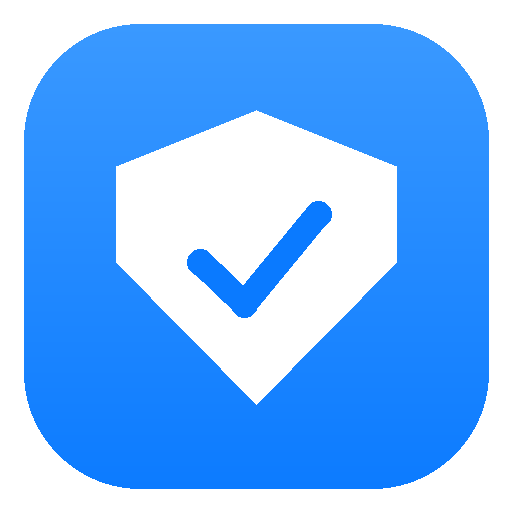
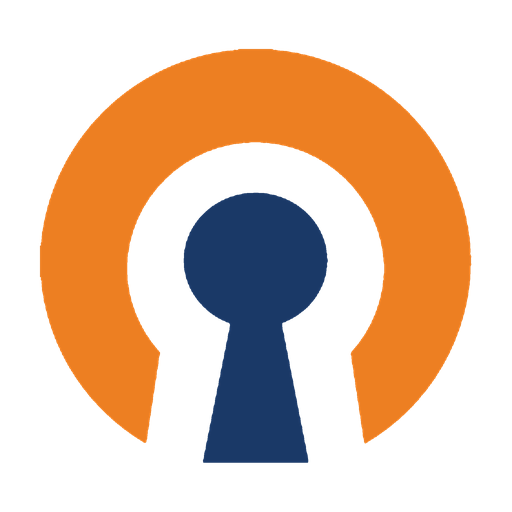
Versão 1.1.1: ícone do OpenVPN no app, na bandeja e nos pacotes
Troca o escudo azul genérico pelo logotipo do OpenVPN (anel laranja com buraco de fechadura), reconstruído em 512 px.
Barra lateral e tela vazia usam o logo sobre base clara (o azul-marinho some no tema escuro).
README: aviso de cliente não oficial e marca da OpenVPN Inc.
Script do RPM gera em pasta separada e não sobrescreve o latest-linux.yml.

diff --git a/ui/styles.css b/ui/styles.css
@@ -85,7 +85,6 @@ body { background: var(--fundo-gradiente); }
 code { font-family: ui-monospace, Menlo, monospace; font-size: 12px; background: var(--preenchimento); padding: 1px 5px; border-radius: 5px; }
 
 .icone { width: 18px; height: 18px; flex-shrink: 0; fill: none; stroke: currentColor; stroke-width: 1.9; stroke-linecap: round; stroke-linejoin: round; }
-.icone.grande { width: 44px; height: 44px; color: var(--acento); }
 
 .vidro { background: var(--vidro); border: 0.5px solid var(--vidro-borda); box-shadow: var(--sombra), var(--vidro-brilho);
   backdrop-filter: blur(24px) saturate(180%); -webkit-backdrop-filter: blur(24px) saturate(180%);
@@ -98,8 +97,10 @@ code { font-family: ui-monospace, Menlo, monospace; font-size: 12px; background:
 .marca { display: flex; align-items: center; gap: 10px; padding: 2px 6px 14px; }
 .marca strong { display: block; font-size: 15px; letter-spacing: -.2px; }
 .marca small { color: var(--texto-2); font-size: 12px; }
-.marca-icone { width: 36px; height: 36px; border-radius: 11px; display: grid; place-items: center; color: #fff;
-  background: linear-gradient(180deg, var(--acento-2), var(--acento)); box-shadow: 0 4px 12px rgba(10,122,255,.28); }
+.marca-icone { width: 36px; height: 36px; border-radius: 11px; display: grid; place-items: center; padding: 5px; flex-shrink: 0;
+  background: linear-gradient(180deg, #fff, #eef1f7); box-shadow: 0 2px 8px rgba(20,30,60,.18), inset 0 0 0 .5px rgba(0,0,0,.06); }
+.marca-icone img { width: 100%; height: 100%; object-fit: contain; display: block; }
+.marca-icone.grande { width: 72px; height: 72px; border-radius: 20px; padding: 10px; }
 .lista-titulo { font-size: 11px; font-weight: 600; text-transform: uppercase; letter-spacing: .6px; color: var(--texto-3); padding: 4px 8px 6px; }
 #lista { list-style: none; margin: 0; padding: 0; overflow-y: auto; flex: 1; display: flex; flex-direction: column; gap: 2px; }
 #lista li { display: flex; align-items: center; gap: 10px; padding: 9px 10px; border-radius: 12px; cursor: pointer; outline: none;

diff --git a/ui/index.html b/ui/index.html
@@ -25,7 +25,7 @@
 <div id="app">
   <aside id="lateral" class="vidro-painel">
     <div class="marca">
-      <span class="marca-icone"><svg class="icone"><use href="#i-escudo"/></svg></span>
+      <span class="marca-icone"><img src="../assets/icone.png" alt=""></span>
       <div><strong>OpenVPN</strong><small>Connect</small></div>
     </div>
     <div class="lista-titulo">Conexões</div>
@@ -48,7 +48,7 @@
     </header>
 
     <section id="vazio-geral" class="cartao vidro hidden">
-      <svg class="icone grande"><use href="#i-escudo"/></svg>
+      <span class="marca-icone grande"><img src="../assets/icone.png" alt=""></span>
       <h2>Sem conexões</h2>
       <p>Importe um perfil <code>.ovpn</code> ou um pacote de conexões exportado.</p>
       <button class="btn primario" id="b-importar2">Importar conexões</button>

diff --git a/scripts/captura-vazio.js b/scripts/captura-vazio.js
@@ -1,0 +1,12 @@
+'use strict';
+// Captura o estado "sem conexões" (xvfb-run -a electron --no-sandbox scripts/captura-vazio.js <pasta>)
+const { app, BrowserWindow } = require('electron');
+const fs = require('fs'), os = require('os'), path = require('path');
+const dados = fs.mkdtempSync(path.join(os.tmpdir(), 'ovpn-vazio-')); app.setPath('userData', dados);
+require('../src/main');
+app.whenReady().then(async () => {
+  await new Promise((r) => setTimeout(r, 2500));
+  const w = BrowserWindow.getAllWindows()[0];
+  fs.writeFileSync(path.join(process.argv[process.argv.length - 1], 'vazio-escuro.png'), (await w.webContents.capturePage()).toPNG());
+  app.exit(0);
+});

diff --git a/README.md b/README.md
@@ -24,3 +24,9 @@ npm run dist:rpm   # rpm, num contêiner Fedora (scripts/rpm)
 ```
 
 Atualização automática: `electron-updater` lê `latest-linux.yml` da última release; só atua no app empacotado.
+
+## Aviso
+
+Cliente **não oficial**. “OpenVPN” e o logotipo são marcas da OpenVPN Inc. e aparecem aqui só para indicar
+compatibilidade com o OpenVPN; este projeto não tem relação com a OpenVPN Inc. nem com o app oficial
+“OpenVPN Connect”.
